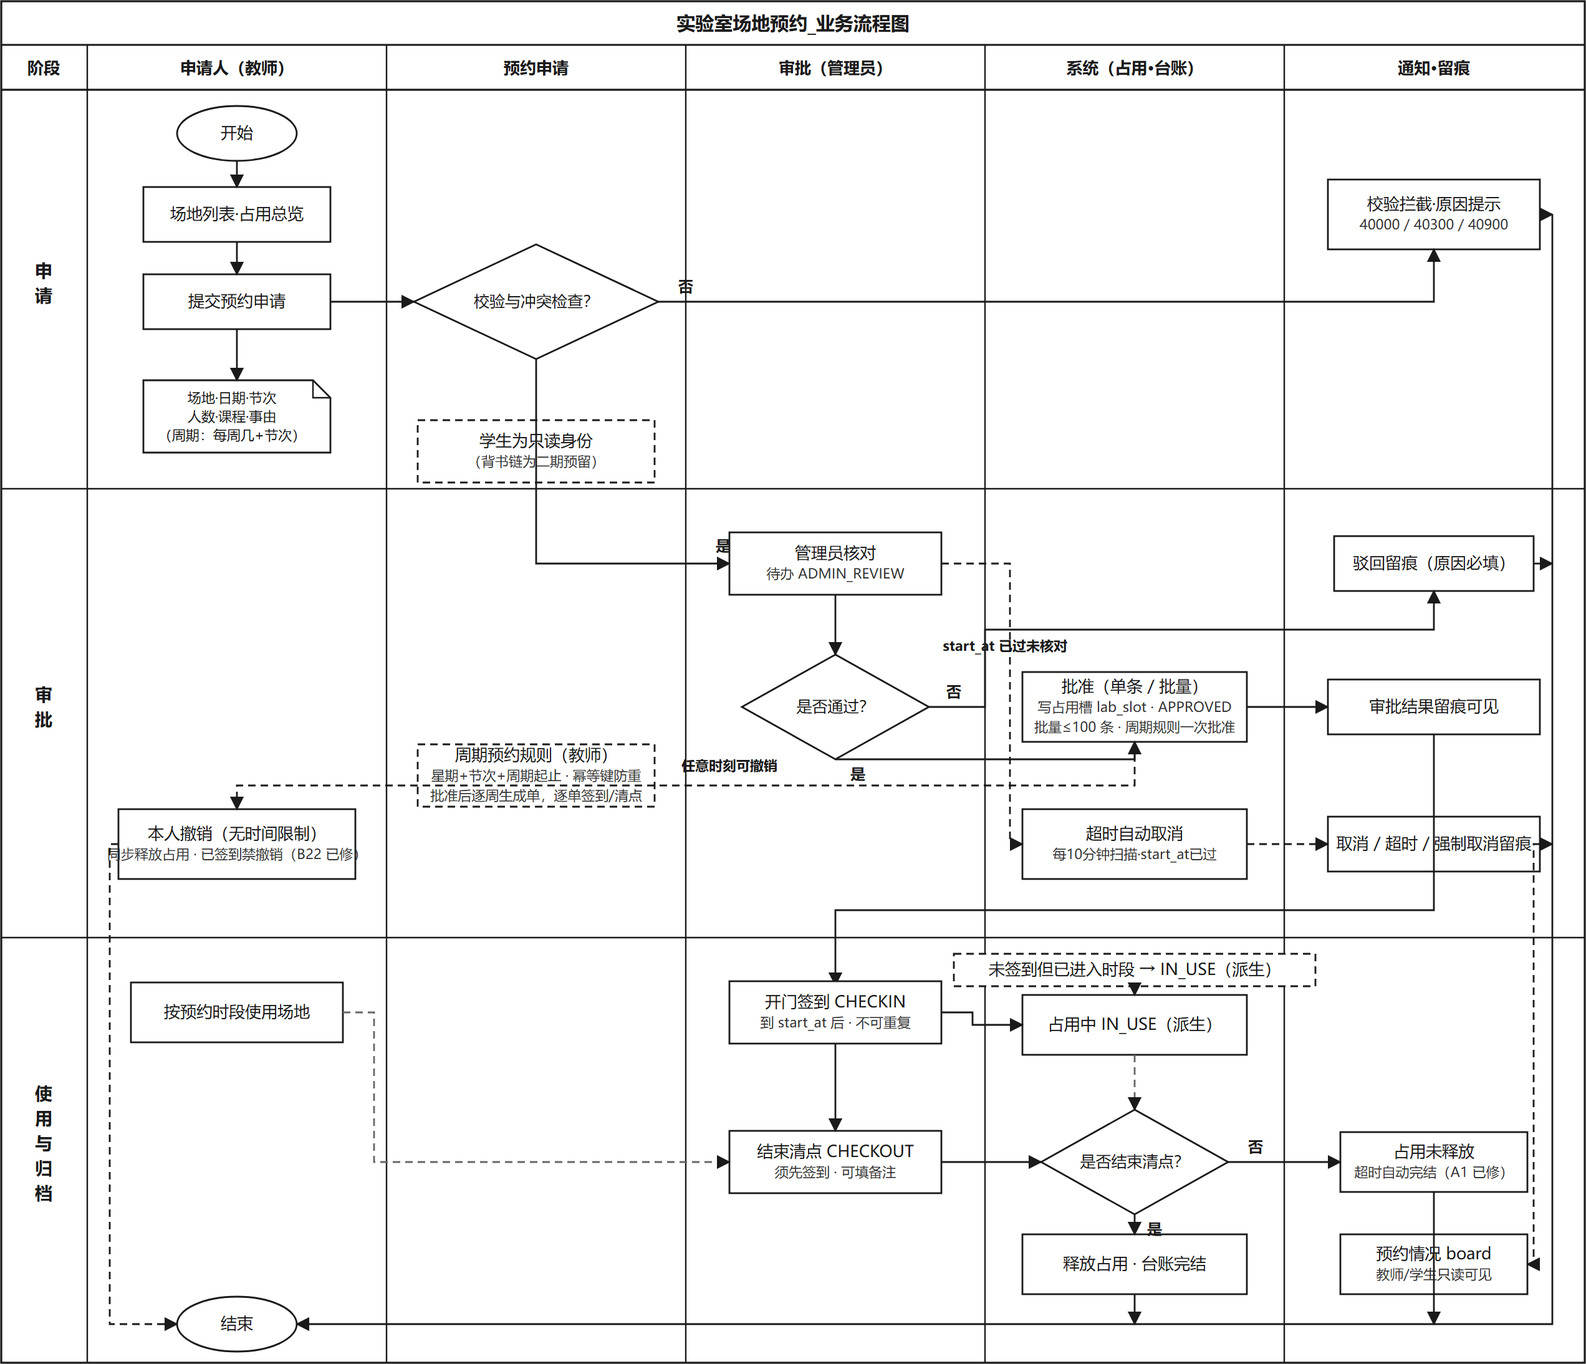
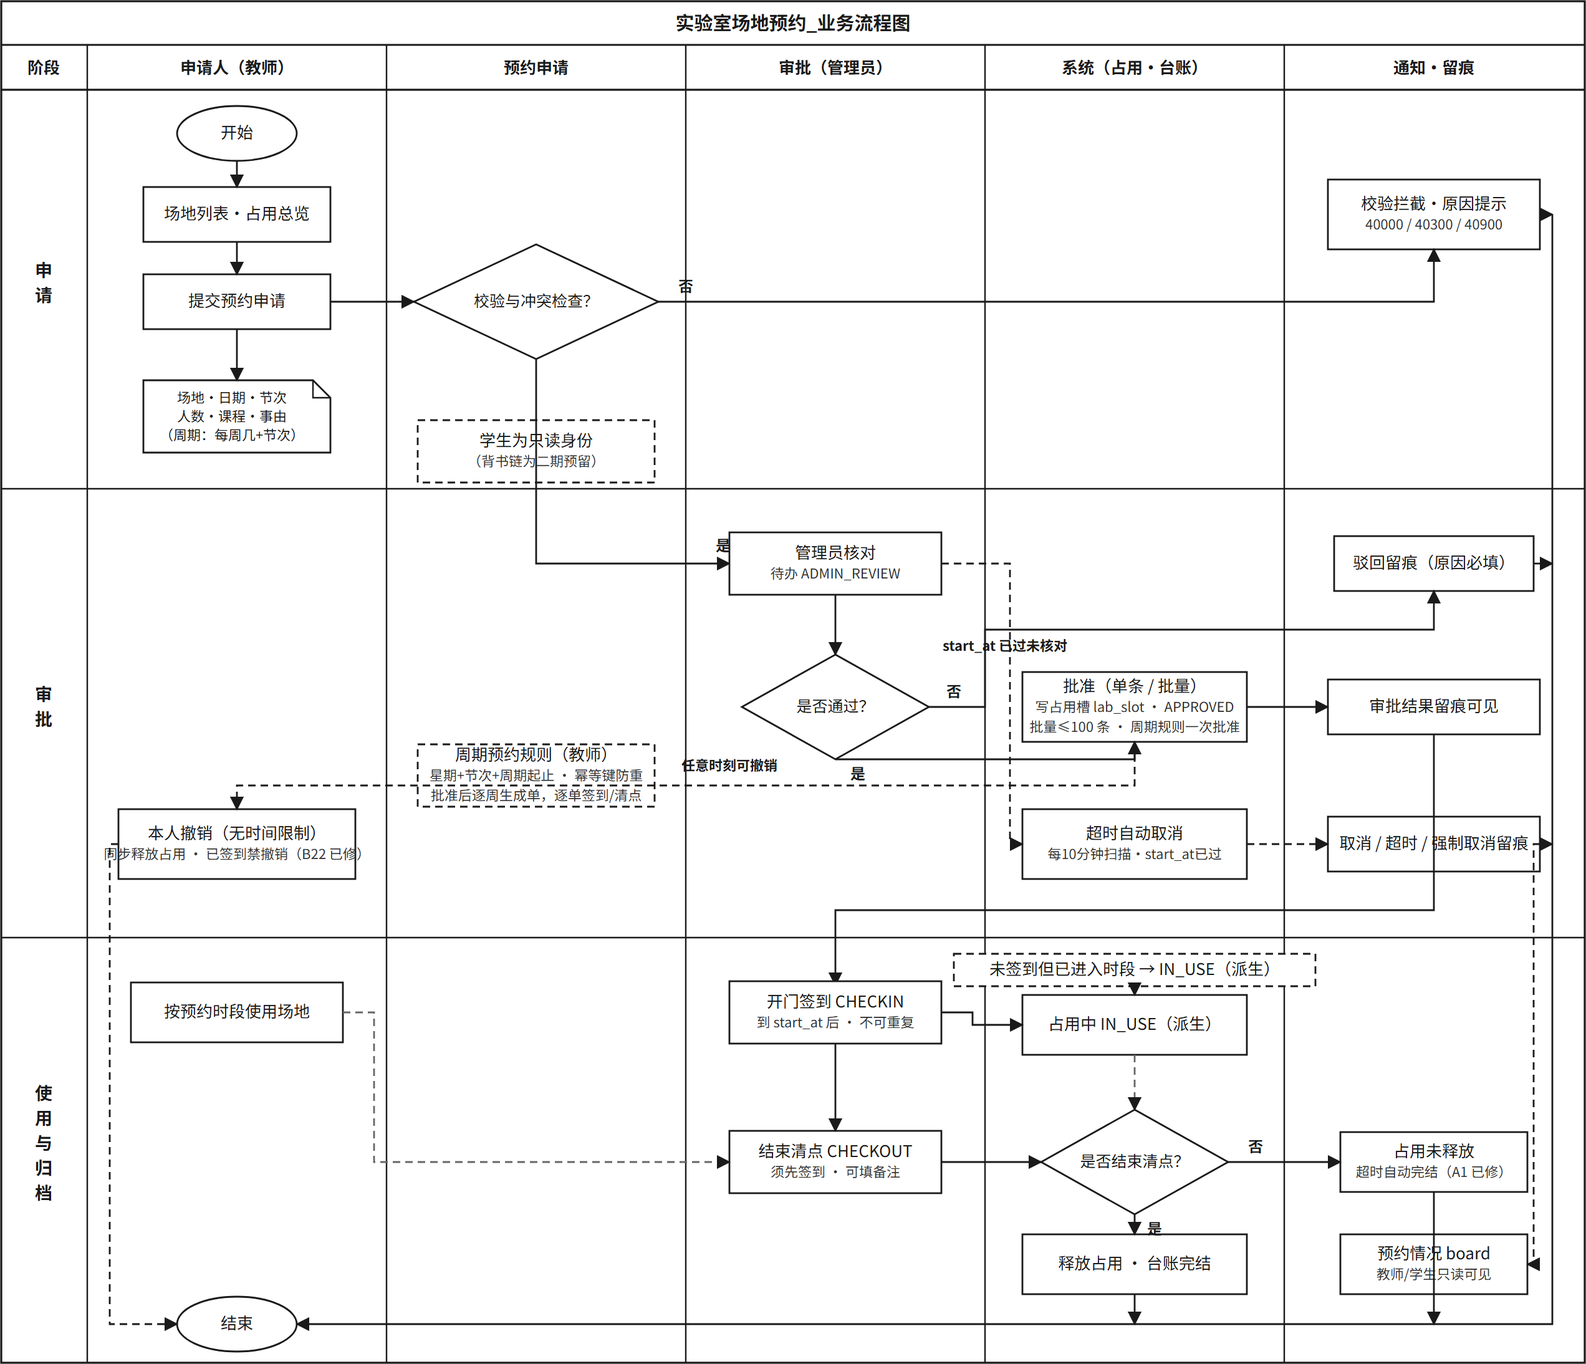
fix: 收口场地流程图第12节两条已知差异（会话超时口径、默认开放时段21:45）
- 默认开放时段：SpaceServiceImpl.DEFAULT_OPEN_END 21:00→21:45，对齐 DB 列默认与第12节课（21:00-21:45），同步 SpaceService/SpaceCreateDTO/BizSpace 注释、导入错误提示与前端导入弹窗文案，SpaceImportIntegrationTest 断言同步
- 会话超时：核实 doLogin 已按用户类型取策略表 SESSION_TIMEOUT_ADMIN=28800 / SESSION_TIMEOUT_STUDENT_TEACHER=7200 按 token 设置，application.yml 全局 86400 补兜底注释，RBAC实施清单登记闭环
- 文档：场地流程图.md 第3节 A3 与第12节两行登记标已修；场地模块开发文档清单同步 21:45
- 图档：v2.2→v2.3（图二时段缺省口径更正 + 修订记录），三张 PNG 按 v2.3 源重新导出（2x）

验证：mvnw test 全量 55/55 集成测试通过；后端 8081 重打包重启正常

diff --git a/docs/audit/场地业务全流程图_v2.html b/docs/audit/场地业务全流程图_v2.html
@@ -3,7 +3,7 @@
 <head>
 <meta charset="UTF-8">
 <meta name="viewport" content="width=device-width, initial-scale=1.0">
-<title>实验室场地预约_业务流程图（v2.2 · 2026-10-26 全量修复实施版）</title>
+<title>实验室场地预约_业务流程图（v2.3 · 2026-10-28 已知差异收口版）</title>
 <style>
   body{margin:0;background:#e9ebee;color:#1a1a1a;font-family:"Microsoft YaHei","SimSun","PingFang SC",sans-serif;}
   .page{max-width:1340px;margin:0 auto;padding:24px 20px 56px;}
@@ -30,8 +30,8 @@
 </head>
 <body>
 <div class="page">
-  <h2>实验室场地预约 · 业务流程图集（v2.2）</h2>
-  <div class="meta">依据：docs/智联教室PRD.md（流程五、4.5.10、附录 B.3）、docs/流程清单.md、docs/场地模块开发文档清单.md、docs/数据库设计.md、docs/场地流程图.md v1.1、sql/booking_flow_deploy_说明.md 及 module/space、module/booking 源码整理 ｜ 版本：v2.2（2026-10-26 按《项目整体审核问题清单 v1.5》全量修复实施同步）</div>
+  <h2>实验室场地预约 · 业务流程图集（v2.3）</h2>
+  <div class="meta">依据：docs/智联教室PRD.md（流程五、4.5.10、附录 B.3）、docs/流程清单.md、docs/场地模块开发文档清单.md、docs/数据库设计.md、docs/场地流程图.md v1.2、sql/booking_flow_deploy_说明.md 及 module/space、module/booking 源码整理 ｜ 版本：v2.3（2026-10-28 收口《场地流程图.md》第 12 节两条已知差异）</div>
   <div class="legend">
     <span><i class="sw ell"></i>开始 / 结束</span>
     <span><i class="sw"></i>处理节点</span>
@@ -45,7 +45,8 @@
     v2 修订要点：① 图一补齐「未签到但已进入时段 → IN_USE（派生）」路径（C1）；② 图一撤销节点改为「无时间限制」并标注已签到亦可撤销的缺口（B22）；③ 图二只读访问措辞改为「经 list/read 授权」（B21）；④ 图三占用槽红字修正为「仅结束清点 / 本人撤销会写入 released_at，超时取消只作用于无槽的 PENDING 单」（C2）；⑤ 三图相互指引（C3）；⑥ 附表新增 B22-B24 与 C1-C3 登记。<br>
     v2.1 修正（2026-10-26 源码复核）：⑦ 图二移除「一键复制 / 名称实时查重 check_name」节点与「名称归一化」表述——清单 v1.2 第四章登记的这些功能在当前代码中不存在（SpaceController 无对应端点），属登记有误；⑧ 附表更正 B17/B18 为「待修」（代码中无对应修复：导入分钟未校验、DuplicateKeyException 无 40900 映射）；⑨ 图三 runtimePhase 按代码判定顺序精确化（有 CHECKOUT 恒 FINISHED、有 CHECKIN 恒 IN_USE，仅无事件时按时间窗派生）；⑩ 图一「通知」泳道更正为「通知·留痕」（一期无消息推送模块）；⑪ 修复两处标签压线。<br>
     v2.1 补丁（2026-10-26 修复实施后）：⑫ B1/B22/B17/B18/B19 真实落地并验证（编译 + 50/50 集成测试 + ESLint 0 错误），图一撤销节点、附表对应行与图二注释同步改为「已修」口径。<br>
-    v2.2 同步（2026-10-26 全量修复实施）：⑬ A1 落地——定时任务对超 end_at 未清点的 APPROVED 单自动完结（AUTO_FINISH 事件 + 幂等释放占用槽，宽限 2 小时可配），图一「占用未释放」节点与图三释放口径同步更新；⑭ A2 落地——管理员强制取消（POST /{id}/force_cancel，原因必填，事件记 FORCE_CANCEL，前端列表已加入口），图三 CANCELLED 来源补 FORCE；⑮ B23/B24 落地——清点不得早于 startAt、超过 endAt 不可签到；⑯ 附表 A1/B23/B24 行与审核提示同步改为「已修」口径；⑰ P2 修复——图三红字残留旧口径已全部清除。
+    v2.2 同步（2026-10-26 全量修复实施）：⑬ A1 落地——定时任务对超 end_at 未清点的 APPROVED 单自动完结（AUTO_FINISH 事件 + 幂等释放占用槽，宽限 2 小时可配），图一「占用未释放」节点与图三释放口径同步更新；⑭ A2 落地——管理员强制取消（POST /{id}/force_cancel，原因必填，事件记 FORCE_CANCEL，前端列表已加入口），图三 CANCELLED 来源补 FORCE；⑮ B23/B24 落地——清点不得早于 startAt、超过 endAt 不可签到；⑯ 附表 A1/B23/B24 行与审核提示同步改为「已修」口径；⑰ P2 修复——图三红字残留旧口径已全部清除。<br>
+    v2.3 同步（2026-10-28 已知差异收口）：⑱ 图二「时段缺省 08:00-21:00」更正为「08:00-21:45」——代码常量 DEFAULT_OPEN_END 对齐 DB 列默认与第 12 节课（21:00-21:45），《场地流程图.md》第 12 节「新增场地默认开放时段」差异闭环；⑲ 第 12 节「登录态时长」核实闭环——登录时按用户类型取策略表 SESSION_TIMEOUT_ADMIN=28800 / SESSION_TIMEOUT_STUDENT_TEACHER=7200 按 token 设置，全局 sa-token.timeout=86400 仅为兜底。
   </div>
 
   <h2>图一 · 实验室场地预约_业务流程图（主流程泳道图）</h2>
@@ -255,7 +256,7 @@ function swimlane(svg,W,lanes,stages,title){
   defs(svg);
   el('rect',{x:1,y:1,width:W-2,height:H-2,fill:'#fff',stroke:'#1a1a1a','stroke-width':1.6},svg);
   el('line',{x1:1,y1:36,x2:W-1,y2:36,stroke:'#1a1a1a','stroke-width':1.4},svg);
-  txt(svg,W/2,24,['场地台账管理流程（/api/v1/space/spaces · v2.2）'],{size:15,bold:true});
+  txt(svg,W/2,24,['场地台账管理流程（/api/v1/space/spaces · v2.3）'],{size:15,bold:true});
   el('line',{x1:1,y1:470,x2:W-1,y2:470,stroke:'#1a1a1a','stroke-width':1.2},svg);
   el('line',{x1:70,y1:36,x2:70,y2:H-1,stroke:'#1a1a1a','stroke-width':1.2},svg);
   txt(svg,35,250,['管','理','员'],{size:14,bold:true,lh:22});
@@ -265,7 +266,7 @@ function swimlane(svg,W,lanes,stages,title){
   rect(svg,'auth',300,235,170,56,'权限校验',['space:space:* · 无权限 40300']);
   diamond(svg,'op',480,235,130,66,'操作类型？');
   const branches=[
-    ['add','新增场地',['名称全局唯一（含已删除）· 容量 1-9999','时段缺省 08:00-21:00 · 状态 AVAILABLE']],
+    ['add','新增场地',['名称全局唯一（含已删除）· 容量 1-9999','时段缺省 08:00-21:45 · 状态 AVAILABLE']],
     ['imp','批量导入',['CSV/XLS/XLSX ≤10MB · ≤5000行','行级校验 · 部分成功 · 失败明细可重传']],
     ['edit','编辑场地',['时段/状态空值保留原值','重名 40900 · 可置 MAINTAINING']],
     ['tog','启用 / 停用（批量≤100）',['停用前影响评估 pending_impact','AVAILABLE⇄CLOSED · 停用后新预约被拦截']],
@@ -299,7 +300,7 @@ function swimlane(svg,W,lanes,stages,title){
   defs(svg);
   el('rect',{x:1,y:1,width:W-2,height:H-2,fill:'#fff',stroke:'#1a1a1a','stroke-width':1.6},svg);
   el('line',{x1:1,y1:36,x2:W-1,y2:36,stroke:'#1a1a1a','stroke-width':1.4},svg);
-  txt(svg,W/2,24,['lab_booking 状态机（落库四态 + 派生阶段）与 lab_slot 占用槽生命周期（v2.2）'],{size:15,bold:true});
+  txt(svg,W/2,24,['lab_booking 状态机（落库四态 + 派生阶段）与 lab_slot 占用槽生命周期（v2.3）'],{size:15,bold:true});
 
   ellipse(svg,'st',110,140,'提交');
   rect(svg,'P',300,140,180,54,'PENDING 待核对',['approval_task READY']);

diff --git a/frontend/src/views/admin/space/SpaceImportDialog.vue b/frontend/src/views/admin/space/SpaceImportDialog.vue
@@ -113,7 +113,7 @@
               支持 CSV / Excel（.csv、.xls、.xlsx），单文件不超过 10MB、最多 5000 行。
             </p>
             <p>
-              类型填「教室/实训室」，状态填「可用/维护中/停用」，开放时段格式 08:00~21:00（留空默认 08:00~21:00）。
+              类型填「教室/实训室」，状态填「可用/维护中/停用」，开放时段格式 08:00~21:45（留空默认 08:00~21:45）。
             </p>
             <p>
               导出的 CSV 可直接改完再导入；重名（含已删除场地）与非法行不会入库，可下载失败明细修正。

diff --git a/src/main/java/com/labmanage/module/space/service/impl/SpaceServiceImpl.java b/src/main/java/com/labmanage/module/space/service/impl/SpaceServiceImpl.java
@@ -74,7 +74,8 @@ public class SpaceServiceImpl implements SpaceService {
 
     /** 开放时段缺省值与 HH:mm 输入/输出格式（上海时间，无时区换算） */
     private static final LocalTime DEFAULT_OPEN_START = LocalTime.of(8, 0);
-    private static final LocalTime DEFAULT_OPEN_END = LocalTime.of(21, 0);
+    // 与 DB 列默认及第 12 节课（21:00-21:45）对齐，见 sql/migrations/class_period_official_12.sql
+    private static final LocalTime DEFAULT_OPEN_END = LocalTime.of(21, 45);
     private static final DateTimeFormatter HH_MM = DateTimeFormatter.ofPattern("HH:mm");
 
     /** 导出与展示用业务时区（AGENTS：页面展示按上海日历） */
@@ -428,8 +429,8 @@ public class SpaceServiceImpl implements SpaceService {
     }
 
     /**
-     * 导入开放时段解析：空值取默认 08:00~21:00；否则须恰好含两个 HH:mm，
-     * 且开始早于结束。分隔符任意（导出格式为 08:00~21:00）。
+     * 导入开放时段解析：空值取默认 08:00~21:45；否则须恰好含两个 HH:mm，
+     * 且开始早于结束。分隔符任意（导出格式为 08:00~21:45）。
      */
     private LocalTime[] parseImportWindow(String raw, List<String> errors) {
         String value = raw == null ? "" : raw.trim();
@@ -452,7 +453,7 @@ public class SpaceServiceImpl implements SpaceService {
             times.add(LocalTime.of(hour, minute));
         }
         if (times.size() != 2) {
-            errors.add("开放时段格式须为「HH:mm~HH:mm」（如 08:00~21:00）");
+            errors.add("开放时段格式须为「HH:mm~HH:mm」（如 08:00~21:45）");
             return null;
         }
         LocalTime start = times.get(0);

diff --git a/src/test/java/com/labmanage/module/space/SpaceImportIntegrationTest.java b/src/test/java/com/labmanage/module/space/SpaceImportIntegrationTest.java
@@ -290,7 +290,7 @@ class SpaceImportIntegrationTest {
         JsonNode record = page.path("data").path("records").get(0);
         assertThat(record.path("status").asText()).isEqualTo("CLOSED");
         assertThat(record.path("openStart").asText()).isEqualTo("08:00");
-        assertThat(record.path("openEnd").asText()).isEqualTo("21:00");
+        assertThat(record.path("openEnd").asText()).isEqualTo("21:45");
     }
 
     @Test

diff --git a/src/main/java/com/labmanage/module/space/entity/BizSpace.java b/src/main/java/com/labmanage/module/space/entity/BizSpace.java
@@ -36,7 +36,7 @@ public class BizSpace extends BaseEntity {
     /** 每日开放开始（上海时间，默认 08:00） */
     private LocalTime openStart;
 
-    /** 每日开放结束（上海时间，默认 21:00，须晚于 openStart） */
+    /** 每日开放结束（上海时间，默认 21:45，须晚于 openStart） */
     private LocalTime openEnd;
 
     /** 状态：AVAILABLE/MAINTAINING/CLOSED（落库） */

diff --git a/src/main/java/com/labmanage/module/space/service/SpaceService.java b/src/main/java/com/labmanage/module/space/service/SpaceService.java
@@ -69,7 +69,7 @@ public interface SpaceService {
     List<SpaceOptionVO> options(SpaceType labType, Integer minCapacity, Boolean availableOnly, String keyword, int limit);
 
     /**
-     * 新建场地（状态缺省 AVAILABLE，开放时段缺省 08:00-21:00）。
+     * 新建场地（状态缺省 AVAILABLE，开放时段缺省 08:00-21:45）。
      */
     SpaceDetailVO create(SpaceCreateDTO dto);
 

diff --git a/src/main/java/com/labmanage/module/space/dto/SpaceCreateDTO.java b/src/main/java/com/labmanage/module/space/dto/SpaceCreateDTO.java
@@ -13,7 +13,7 @@ import jakarta.validation.constraints.Size;
  * 新建场地入参。
  * <p>
  * 客户端不可指定 id/审计字段，由服务端写入；
- * openStart/openEnd 可空，缺省分别取 08:00 / 21:00；
+ * openStart/openEnd 可空，缺省分别取 08:00 / 21:45；
  * status 可空，缺省 AVAILABLE。
  */
 public record SpaceCreateDTO(

diff --git a/docs/场地流程图.md b/docs/场地流程图.md
@@ -153,7 +153,7 @@ flowchart TB
 | 节点 | 功能定义 | 输入条件 | 执行动作 | 输出结果 | 角色/系统 | 异常路径 |
 | --- | --- | --- | --- | --- | --- | --- |
 | A2 | 查询/统计/导出 | 登录 + `space:space:list`；分页 pageNum≥1、pageSize≤100 | 名称/位置模糊 + 类型/状态精确 + 容量区间；排序白名单（labName/capacity/createTime/updateTime），未命中回退 create_time DESC | PageResult / SpaceStatsVO / CSV（9 列中文表头，时间上海时区） | 管理员 + 后端 | 分页越界 → 40000；options limit∉[1,100] → 40000 |
-| A3 | 新建场地 | `space:space:create`；labName≤128、capacity≥1、时段 `HH:mm` | 名称 trim → 含逻辑删除查重 → 窗口校验 → 默认时段 08:00/21:00、默认状态 AVAILABLE → insert | SpaceDetailVO；id 雪花字符串 | 管理员 + 后端 + lab 表 | 撞名 40900；start≥end 40000；DTO 违例 40000 |
+| A3 | 新建场地 | `space:space:create`；labName≤128、capacity≥1、时段 `HH:mm` | 名称 trim → 含逻辑删除查重 → 窗口校验 → 默认时段 08:00/21:45、默认状态 AVAILABLE → insert | SpaceDetailVO；id 雪花字符串 | 管理员 + 后端 + lab 表 | 撞名 40900；start≥end 40000；DTO 违例 40000 |
 | A4 | 批量导入 | 同上权限；文件 .csv/.xls/.xlsx ≤10MB ≤5000 行 | 魔数识别格式 → 表头校验（场地名称/类型/容纳人数必填列）→ 行级校验 → 分批 500 行入库 | SpaceImportVO（部分成功，逐行失败原因） | 管理员 + 后端 | 文件级问题整体 40000；行级问题仅收集不阻断 |
 | A5 | 编辑场地 | `space:space:update`；记录存在且未删除 | 全量更新；null 语义：时段/状态保留原值，位置/设施清空 | SpaceDetailVO | 管理员 + 后端 | 不存在 40400；撞名 40900；更新 0 行 40400 |
 | A6 | 停用前置联动 | `space:space:update` | 统计 `released_at IS NULL AND end_at > now` 的未来占用时段数与去重预约数 | SpacePendingImpactVO{futureSlots, futureBookings} | 管理员 + 后端 + lab_slot/lab_booking | 场地不存在 40400；查询失败前端静默降级为无提示 |
@@ -466,8 +466,8 @@ stateDiagram-v2
 | 课表冲突检测 | course_schedule 排课时段拦截 + 反向冲突预警 | 课表相关表未建，冲突仅对 lab_slot 判定 | 二期 |
 | 配套器材/物料预登记 | 老师单可勾选，批准时生成器材预约；学生单不可勾选 | 器材/物料模块未建，无此联动 | 二期 |
 | 审批催办与消息通知 | 24h 催办、结果推送、停用反向预警清单推送 | 消息模块未建；停用联动实现为 pending_impact 前端前置提醒（不推送） | 二期 |
-| 登录态时长 | 师生 2h / 管理员 8h | 当前 sa-token.timeout=86400 全局默认（RBAC实施清单已登记待修正） | 待修正 |
-| 新增场地默认开放时段 | DB 列默认 21:45 | 代码默认 08:00–21:00（SpaceServiceImpl 常量） | 已知不一致 |
+| 登录态时长 | 师生 2h / 管理员 8h | 登录时 `StpUtil.login(id, SaLoginParameter.setTimeout(...))` 按 userType 取策略表 `SESSION_TIMEOUT_ADMIN`=28800 / `SESSION_TIMEOUT_STUDENT_TEACHER`=7200，per-token 覆盖全局 `sa-token.timeout=86400` 兜底 | ✅ 已修（2026-10-28，代码与策略种子早已就位，本次核实闭环并补 application.yml 注释） |
+| 新增场地默认开放时段 | DB 列默认 21:45 | 代码常量 `DEFAULT_OPEN_END` 已对齐 21:45（与 DB 列默认、第 12 节课 21:00-21:45、前端表单默认一致） | ✅ 已修（2026-10-28，代码对齐 DB，无数据库变更） |
 | lab.visible 列 | DDL 已建（1 可见/2 不可见） | 实体未映射、代码未使用 | 未启用 |
 
 ---

diff --git a/docs/场地模块开发文档清单.md b/docs/场地模块开发文档清单.md
@@ -115,7 +115,7 @@
 | `GET /options` | `space:space:list` | `spaceType?`、`minCapacity?`、`availableOnly?`（query） | `Result<List<SpaceOptionVO>>` | 下拉选项；`availableOnly=true` 仅 AVAILABLE |
 | `GET /stats` | `space:space:list` | 无 | `Result<SpaceStatsVO>` | 统计卡片：total/available/maintaining/closed 四计数 + typeDistribution 类型分布（按 status/space_type 分组聚合） |
 | `GET /{id}` | `space:space:read` | 路径 id | `Result<SpaceDetailVO>` | 详情 |
-| `POST /` | `space:space:create` | `SpaceCreateDTO`（body） | `Result<SpaceDetailVO>` | 新增；状态缺省 AVAILABLE，时段缺省 08:00-21:00 |
+| `POST /` | `space:space:create` | `SpaceCreateDTO`（body） | `Result<SpaceDetailVO>` | 新增；状态缺省 AVAILABLE，时段缺省 08:00-21:45 |
 | `PUT /{id}` | `space:space:update` | `SpaceUpdateDTO`（body） | `Result<SpaceDetailVO>` | 编辑；时段/状态空值保留原值 |
 | `POST /{id}/enable` | `space:space:update` | 路径 id | `Result<Void>` | 状态 → AVAILABLE |
 | `POST /{id}/disable` | `space:space:update` | 路径 id | `Result<Void>` | 状态 → CLOSED |
@@ -164,7 +164,7 @@ module/space/
 
 ### 4.1 单表与开放时段
 
-单表后无楼栋/校区层级，位置为自由文本；开放规则由"同日多段+有效期"简化为**每日单时段**（08:00-21:00 默认）。学期/假期差异、多段开放等复杂规则待预约模块（分组 B）有真实需求时再评估扩展（如引入独立时段表或字段），一期不预留。
+单表后无楼栋/校区层级，位置为自由文本；开放规则由"同日多段+有效期"简化为**每日单时段**（08:00-21:45 默认，容纳第 12 节课）。学期/假期差异、多段开放等复杂规则待预约模块（分组 B）有真实需求时再评估扩展（如引入独立时段表或字段），一期不预留。
 
 ### 4.2 状态落库与派生占用
 

diff --git a/docs/RBAC实施清单.md b/docs/RBAC实施清单.md
@@ -154,7 +154,7 @@
 实施规则：
 
 1. 连续 5 次密码错误锁定 30 分钟（`failed_login_count`/`locked_until`）；验证码 6 位数字、5 分钟有效、错误 5 次作废。
-2. 会话有效期按用户类型区分：学生/老师 2 小时、管理员 8 小时，登录时 `StpUtil.login(id, SaLoginParameter.setTimeout(...))` 设置。注意当前 `sa-token.timeout: 86400` 全局默认值与本规则不一致，roles 模块落地时修正。
+2. 会话有效期按用户类型区分：学生/老师 2 小时、管理员 8 小时，登录时 `StpUtil.login(id, SaLoginParameter.setTimeout(...))` 设置。**✅ 已落地（2026-10-28 核实）**：`AuthServiceImpl.doLogin` 按 userType 读策略表 `SESSION_TIMEOUT_ADMIN`=28800 / `SESSION_TIMEOUT_STUDENT_TEACHER`=7200（种子见 [sql/sys_policy.sql](../sql/sys_policy.sql)），per-token 超时覆盖全局 `sa-token.timeout: 86400` 兜底值。
 3. 90 天强制换密依据 `password_changed_at`；登录响应 `passwordChangeRequired=true` 时前端强制跳转改密页。
 4. 首登建档事务：匹配有效名单（学工号+手机号）→ 创建 sys_user → 写入主身份 sys_user_role，角色由名单 `person_type` 派生，客户端不得指定。
 
